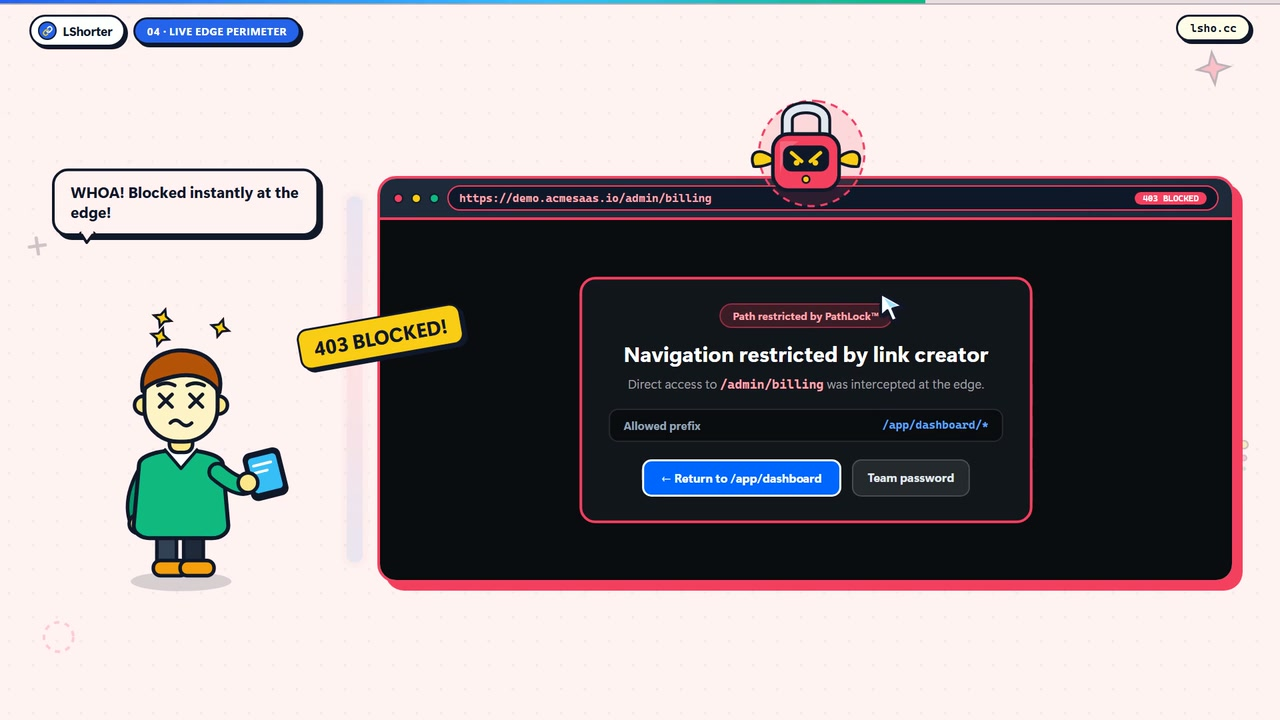
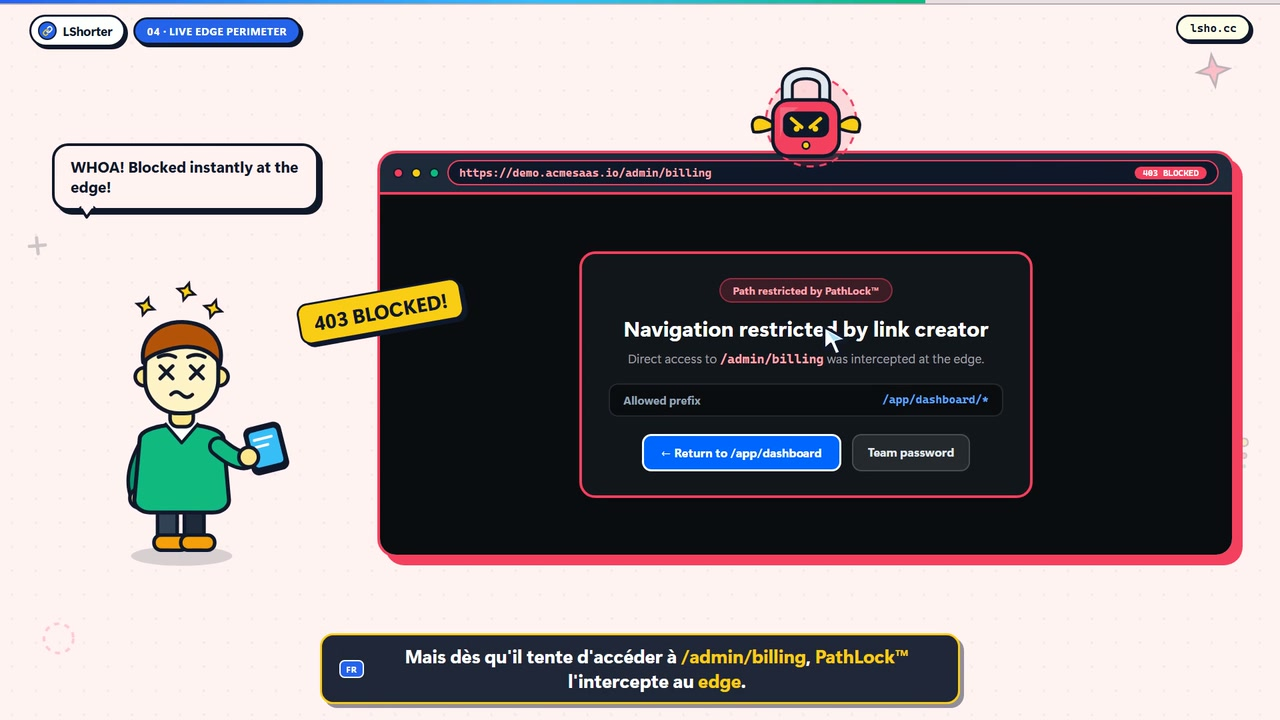
feat(pathlock): integrate ElevenLabs voiceover, French StrategicSubtitle overlay, and unobstructed player controls

diff --git a/components/marketing/pathlock-cartoon-panel.tsx b/components/marketing/pathlock-cartoon-panel.tsx
@@ -6,8 +6,8 @@ import { Maximize2, Pause, Play, Volume2, VolumeX } from "lucide-react";
 const CARTOON_CHAPTERS = [
   { id: "dilemma", label: "Scenario", sec: 0 },
   { id: "exposed", label: "No Lock", sec: 10 },
-  { id: "setup", label: "PathLock™", sec: 20 },
-  { id: "blocked", label: "403 Block", sec: 31 },
+  { id: "setup", label: "PathLock™", sec: 19.7 },
+  { id: "blocked", label: "403 Block", sec: 30.5 },
 ] as const;
 
 function formatTime(sec: number) {
@@ -180,8 +180,8 @@ export function PathLockCartoonPanel() {
       <div className="group relative aspect-video w-full bg-[#0B0C10] overflow-hidden">
         <video
           ref={videoRef}
-          src="/videos/pathlock-cartoon.mp4?v=2"
-          poster="/videos/pathlock-cartoon-poster.jpg"
+          src="/videos/pathlock-cartoon.mp4?v=3"
+          poster="/videos/pathlock-cartoon-poster.jpg?v=3"
           muted={isMuted}
           loop
           playsInline
@@ -211,8 +211,12 @@ export function PathLockCartoonPanel() {
           </button>
         )}
 
-        {/* Bottom Scrub Bar + Compact Play/Pause */}
-        <div className="absolute inset-x-0 bottom-0 bg-gradient-to-t from-black/70 via-black/30 to-transparent px-3.5 pt-6 pb-2.5 opacity-95 transition-opacity">
+        {/* Bottom Scrub Bar — reveals cleanly on hover or pause so FR subtitles remain 100% unobstructed */}
+        <div
+          className={`absolute inset-x-0 bottom-0 bg-gradient-to-t from-black/75 via-black/35 to-transparent px-3.5 pt-6 pb-2.5 transition-opacity duration-200 ${
+            isPlaying ? "opacity-0 group-hover:opacity-100" : "opacity-100"
+          }`}
+        >
           <div className="flex items-center gap-3">
             <button
               type="button"
